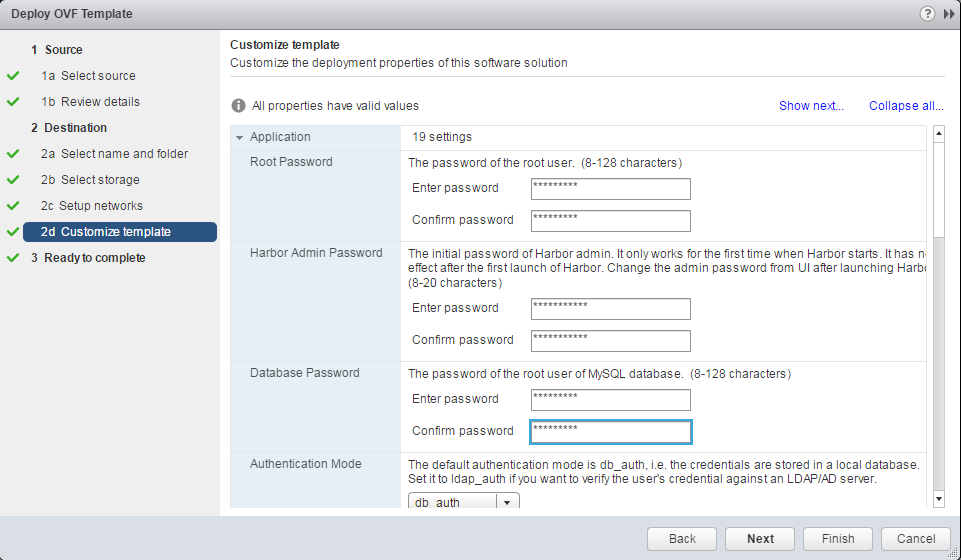
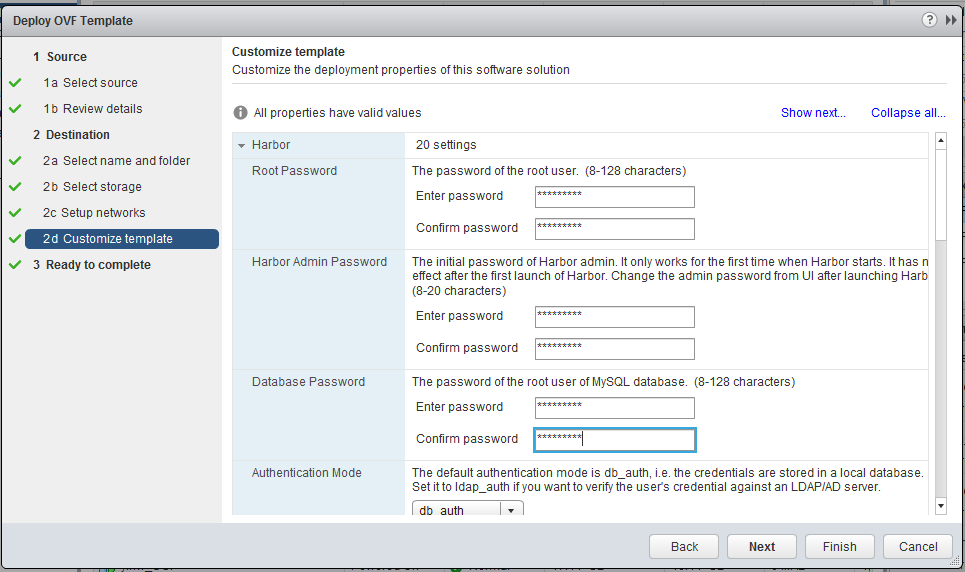
1.add self_registration attr 2.update docs

diff --git a/docs/installation_guide_ova.md b/docs/installation_guide_ova.md
@@ -50,6 +50,7 @@ This guide takes you through the steps about installing and configuring Harbor o
 	* **Email SSL**: Whether to enabled secure mail transmission.
 	* **SSL Cert**: Paste in the content of a certificate file. If SSL Cert and SSL Cert Key are both set, HTTPS will be used.
 	* **SSL Cert Key**: Paste in the content of certificate key file. If SSL Cert and SSL Cert Key are both set, HTTPS will be used.
+	* **Self Registration**: Determine whether the self-registration is allowed or not when the authentication mode is database. Set this to off to disable a user's self-registration in Harbor.
 	* **Verify Remote Cert**: Determine whether the image replication should verify the SSL certificate when it connects to a remote registry. Set this flag to off when the remote registry uses a self-signed or untrusted certificate.
 	* **Garbage Collection**: When setting this to true, Harbor performs garbage collection everytime it boots up.
 
